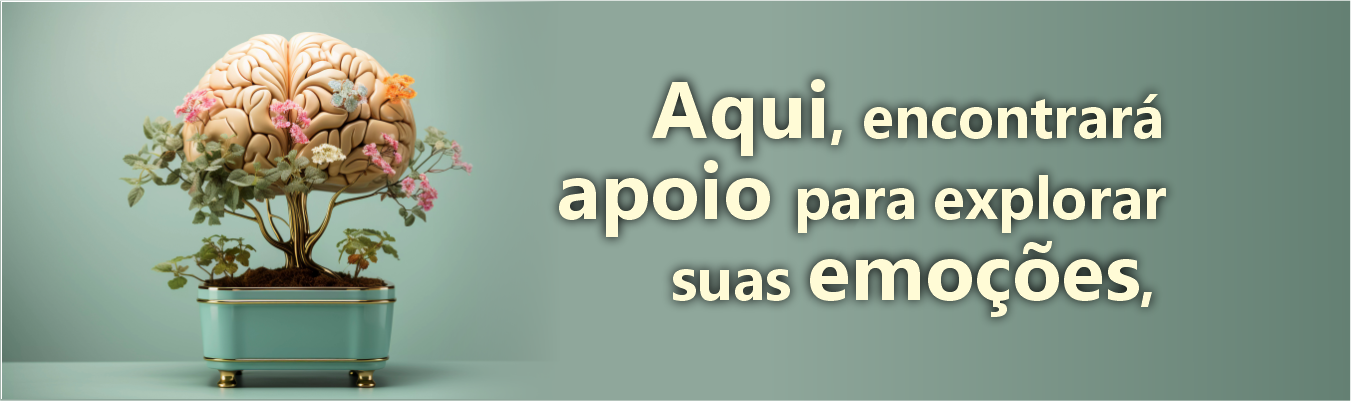
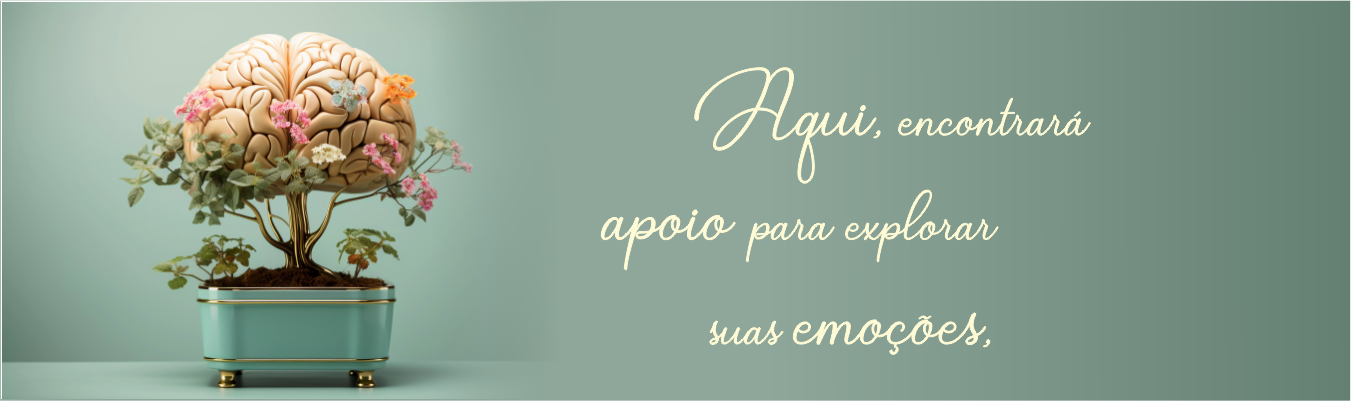
Add files via upload

Changed region(s): [[0.4041, 0.1496, 0.8705, 0.8678]]

diff --git a/index.html b/index.html
@@ -65,7 +65,7 @@
   
 
   <!-- Conteúdo -->
-  <div class="container fontes">
+    <div class="container fontes">
       
       <section id="sobre-mim">
           <div class="container">
@@ -74,10 +74,14 @@
                     <img src="img/sobre/bel.jpg" alt="Jesebel" class="img-fluid">
                 </div>
                 <div class="col-md-5">
+                  <div style="color:#786208; text-align:center">
+                  <h3>Sobre Mim</h3></div>
                     <div class="sobre-mim-texto"style="color:#786208;">
-                        <p style="font-size: 19px;">Olá, muito prazer! Meu nome é  Jesebel Lins, sou Psicóloga Clínica formada há 7 anos, Pós-graduada em Terapia Cognitiva Comportamental e Neuropsicologia.</p>
-                        <p style="font-size: 19px;">Valorizo a singularidade de cada indivíduo acreditando na possibilidade de transformação e autoconhecimento que a psicoterapia pode trazer para a vida das pessoas.</p>
-                        <p style="font-size: 19px;">Meu trabalho é baseado em acolhimento, compaixão, suporte emocional sempre norteado por evidências científicas, ética e compromisso.</p>
+                        <p style="font-size: 19px;">Psicóloga Clínica há 7 anos, formação em Terapia Cognitivo Comportamental (TCC) e Neuropsicologia, apaixonada pela profissão atuo em transtorno de estresse pós-traumático (consiste em reações intensas, desagradáveis e disfuncionais que ocorrem após um evento extremamente traumático), manejo das emoções, perdas e lutos.
+                          Valorizo a singularidade de cada indivíduo acreditando na possibilidade de transformação e autoconhecimento que a psicoterapia pode oferecer. Meu trabalho é baseado em acolhimento, compaixão, suporte emocional sempre norteado por evidências científicas, ética e compromisso.
+                          </p>
+                        <p style="font-size: 19px;"></p>
+                        <p style="font-size: 19px;"></p>
                     </div>
                 </div>
             </div>
@@ -85,50 +89,45 @@
       </section>
 
       
-          <section id="servicos">
-            <div class="container, fontes">
-              <div style="color: #ffffff; text-align:center; border-radius: 10px; background-color: #ACC1A7; height:40px;"><h3>SERVIÇOS</h3></div><br>
+      <section id="servicos">
+        <div class="container fontes">
+          <div style="color: #ffffff; text-align:center; border-radius: 10px; background-color: #ACC1A7; height:40px;"><h3>SERVIÇOS</h3></div><br>
                 
-              <div class="row">
-                    <div class="col-md-5">
-                        <div class="sobre-mim-texto"style="color:#786208;">
-                            <h2>Psicoterapia</h2>
-                            <p style="font-size: 19px;">A psicoterapia, segundo Strupp (1978), é uma forma de tratamento que utiliza princípios psicológicos e tem como objetivo auxiliar o paciente a modificar problemas emocionais, cognitivos e comportamentais.</p>
-                            <h2>Benefícios</h2>
-                          <p style="font-size: 17px;">Durante a sua caminhada você poderá olhar com mais cuidado para possíveis formas de lidar com questões do dia a dia e com seus relacionamentos. O resultado é um aprofundamento no autoconhecimento favorecendo a percepção de situações de incomodo e possibilitando decisões mais assertivas e genuínas para sua vida. </p>
-                            <h2>Modalidades:</h2>
-                            <p style="font-size: 19px;"><b>Online</b> - São utilizadas plataformas como Zoom ou Google Meet para a realização dos atendimentos.
-                            <br><h2>Atendimento ao Público:</h2>
-                            <p style="font-size: 19px;">- Adolescente (a partir de 13 anos);<br>
-                              - Adulto.<br>  
-                        </div>
-                    </div>
-                    <!-- IMAGEM <div class="col-md-5">
-                        <img src="img/serv/serv.jpg" alt="Jesebel" class="img-fluid2">
-                    </div> -->
-                    <div class="col-md-6">
-                        <div class="sobre-mim-texto"style="color:#786208;">
-                            
-                              
-                              
-                            
-                        </div>
-                    </div>
-                    <div class="col-md-5">
-                      <div class="sobre-mim-texto"style="color:#786208;">
-
-                          
-                          
-                      </div>
-                  </div>
+            <div class="row">
+              <div class="col-md-5">
+                <div class="sobre-mim-texto"style="color:#786208;">
+                  <h2>Psicoterapia</h2>
+                    <p style="font-size: 19px;">A psicoterapia, segundo Strupp (1978), é uma forma de tratamento que utiliza princípios psicológicos e tem como objetivo auxiliar o paciente a modificar problemas emocionais, cognitivos e comportamentais.</p>
+                        <h2>Benefícios</h2>
+                        <p style="font-size: 17px;">Durante a sua caminhada você poderá olhar com mais cuidado para possíveis formas de lidar com questões do dia a dia e com seus relacionamentos. O resultado é um aprofundamento no autoconhecimento favorecendo a percepção de situações de incomodo e possibilitando decisões mais assertivas e genuínas para sua vida. </p>
+                        <h2>Modalidades:</h2>
+                        <p style="font-size: 19px;"><b>Online</b> - São utilizadas plataformas como Zoom ou Google Meet para a realização dos atendimentos.
+                        <br><h2>Atendimento ao Público:</h2>
+                        <p style="font-size: 19px;">- Adolescente (a partir de 13 anos);<br>
+                          - Adulto.<br>  
                 </div>
-            </div>
-            
-        </section>
+              </div>
+              <div class="col-md-4 offset-md-1">
+                <img src="img/serv/2b.png" alt="Jesebel" class="img-fluid2 ">
+              </div> 
+              <div class="col-md-6">
+                <div class="sobre-mim-texto"style="color:#786208;">
+                </div>          
+              </div>                
+                              
+              <div class="col-md-5">
+                <div class="sobre-mim-texto"style="color:#786208;">             
+                </div>
+              </div>
+            </div>        
+           </div>      
+          </div> 
+        </div>                   
+                          
+      </section>        
+                   
         
-      
-        
-      <section id="psicoterapia" style="background-color:#ffffff;border-radius:10px">
+      <section class="container fontes" id="psicoterapia" style="background-color:#ffffff;border-radius:10px ">
 
           <div style="color: #ffffff; text-align:center; border-radius: 10px; background-color: #ACC1A7; height:40px;"><h3>Por que fazer psicoterapia?</h3></div>
             <div class="container fontes">
@@ -154,7 +153,7 @@
           </div>
       </section><br>
 
-      <section id="duvidas">
+      <section class="container fontes" id="duvidas">
 
         <div style="color: #ffffff; text-align:center; border-radius: 10px; background-color: #ACC1A7; height:40px;"><h3>Dúvidas frequentes</h3></div><br>
         <div class="accordion" id="accordionExample">
@@ -249,47 +248,41 @@
         </div>  
       </section><br>
 
-    <section id="contato">
-      <div style="color: #ffffff; text-align:center; border-radius: 10px; background-color: #ACC1A7; height:40px;"><h3>CONTATO</h3></div><br>
+      <section class="container fontes"id="contato">
+        <div style="color: #ffffff; text-align:center; border-radius: 10px; background-color: #ACC1A7; height:40px;"><h3>CONTATO</h3></div><br>
+        <div class="row"></div>
+        
+        <form action="https://formsubmit.co/psijesebell@gmail.com" method="POST">
 
-      
-        <div class="row">
-            
-          </div>
-          <form action="https://formsubmit.co/psijesebell@gmail.com" method="POST">
-
-              <div >
-                <div class="   col-md-7 offset-md-4">
-                 <label for="nome"><b>Nome:</b></label><br>
-                 <input type="text" id="nome" name="nome" style="width: 300px; border-radius:10px;" required><br>
+          <div >
+            <div class="   col-md-7 offset-md-4">
+              <label for="nome"><b>Nome:</b></label><br>
+              <input type="text" id="nome" name="nome" style="width: 300px; border-radius:10px;" required><br>
                
                 
               
-                 <label for="email"><b>E-mail:</b></label><br>
-                 <input type="email" id="email" name="email" style="width: 300px; border-radius: 10px;" required><br>
+              <label for="email"><b>E-mail:</b></label><br>
+              <input type="email" id="email" name="email" style="width: 300px; border-radius: 10px;" required><br>
     
-                 <label for="mensagem"><b>Mensagem:</b></label><br>
-                 <textarea id="mensagem" name="mensagem" rows="4" style="width: 300px; border-radius: 10px;" required></textarea><br>
+              <label for="mensagem"><b>Mensagem:</b></label><br>
+              <textarea id="mensagem" name="mensagem" rows="4" style="width: 300px; border-radius: 10px;" required></textarea><br>
     
-                 <button type="submit" style="background-color: #ACC1A7; color:#000000; ; width: 300px;">Enviar Mensagem</button>
-                 <Input type="hidden" name="_subject"value="Contato site">
-                 <Input type="text" name="_honey"style="display:none">
-                 <Input type="hidden" name="_captcha"value="false">
-                 <input type="hidden" name="_autoresponse" value="Obrigado por sua mensagem, logo entraremos em contato!">
-                </div>
-              </div>
-            </form>
-                  
-          </div>      
-        </div>
-      </div>
-      
-    </section><br>
-    <section id="" >
+              <button type="submit" style="background-color: #ACC1A7; color:#000000; border-radius: 10px; width: 300px;">Enviar Mensagem</button>
+              <Input type="hidden" name="_subject"value="Contato site">
+              <Input type="text" name="_honey"style="display:none">
+              <Input type="hidden" name="_captcha"value="false">
+              <input type="hidden" name="_autoresponse" value="Obrigado por sua mensagem, logo entraremos em contato!">
+            </div>
+          </div>
+        </form> 
 
-     <div style="border-radius: 10px; background-color: #ACC1A7; height:5px;" class=" col-md-10 offset-md-1"></div><br>   
+      </section><br>
        
-    </section>
+      <section id="" class="container">
+
+       <div style="border-radius: 10px; background-color: #ACC1A7; height:5px;" ></div><br>   
+       
+      </section>
       
         <div id="conteudo" >
           <object type="text/html" data="insta.html" width="100%" height="540px"></object>
@@ -299,13 +292,13 @@
     
 
             <!-- Restante do código permanece igual -->
-    <footer style="background-color: #DDCDBE"><br>
-      <div class="row">
-        <div style="margin-left: 5%;">
-         <br><br>
-          <img src="img/logo/logobel.png" style="width: 200px;"></a>
-        </div> 
-        <div style="margin-left: 20%; color:#584417">
+      <footer style="background-color: #DDCDBE"><br>
+        <div class="row">
+         <div style="margin-left: 5%;">
+          <br><br>
+           <img src="img/logo/logobel.png" style="width: 200px;"></a>
+         </div> 
+         <div style="margin-left: 20%; color:#584417">
           <p><br><b>________________________________</b>
           <br><br>Atendimento de Psicoterapia <br>
           para <B>adultos</B> na modalidade<br>
@@ -336,8 +329,10 @@
           z-index:1000;" target="_blank">
         <i style="margin-top:16px" class="fa fa-whatsapp"></i>
         </a>
-        </footer>
-<div style="background-color:#A5A58D; color:#584417; text-align:center;" >
+    
+      </footer>
+    </div>
+      <div style="background-color:#A5A58D; color:#584417; text-align:center;" >
         ©2024 Psicologa Jesebel direitos reservados </div>
   <script src="https://code.jquery.com/jquery-3.3.1.slim.min.js" integrity="sha384-q8i/X+965DzO0rT7abK41JStQIAqVgRVzpbzo5smXKp4YfRvH+8abtTE1Pi6jizo" crossorigin="anonymous"></script>
 <script src="https://cdnjs.cloudflare.com/ajax/libs/popper.js/1.14.3/umd/popper.min.js" integrity="sha384-ZMP7rVo3mIykV+2+9J3UJ46jBk0WLaUAdn689aCwoqbBJiSnjAK/l8WvCWPIPm49" crossorigin="anonymous"></script>

diff --git a/css/stilo.css b/css/stilo.css
@@ -1,6 +1,6 @@
 body {
-   /* background-image: url('/img/fd/fdo.jpg');*/
-    background-color: #E4E2D6;
+    background-image: url('img/fd/7f3dee67-1236-44d5-95e5-5ec9aa2e7dac.jpg');
+    /*background-color: #E4E2D6;*/
     background-size: cover; /* para ajustar o tamanho da imagem ao tamanho da tela */
     background-repeat: no-repeat; /* para evitar a repetição da imagem */
     
@@ -40,7 +40,7 @@ body {
 }
 .img-fluid2 {
     margin-left: 20px;
-    max-width: 500px;
+    max-width: 400px;
     height: auto;
     border: 0px solid #0e220e; /* Adapte a cor da borda conforme desejado */
     border-radius: 5px; /* Adapte o raio do canto conforme desejado */

diff --git a/css/stiloo.css b/css/stiloo.css
@@ -6,7 +6,7 @@
 .social-icons li {
   display: inline-block;
   padding: 0;
-  margin-right: 5px;
+  margin-right: 10px;
 }
 .social-icons li:last-child {
   margin-right: 0;
@@ -19,8 +19,8 @@
   width: 40px;
   height: 40px;
   line-height: 40px;
-  background: #4F6D4A;
-  color: #DDD;
+  background: #A5A58D;
+  color: #584417;
   transition: 0.3s;
 }
 .social-icons li a:hover {
